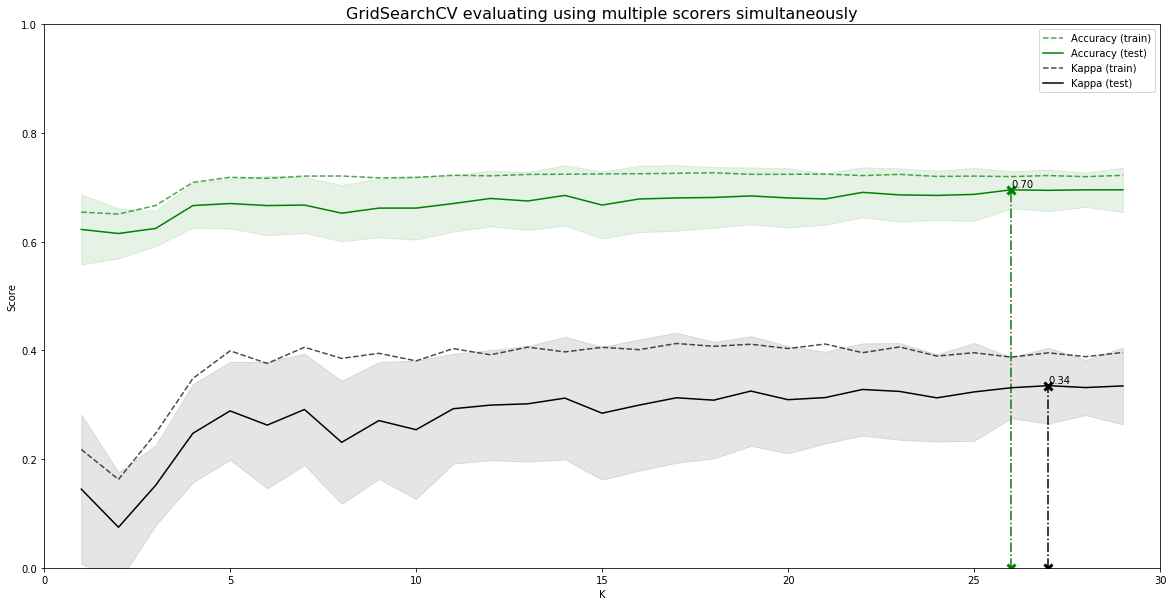
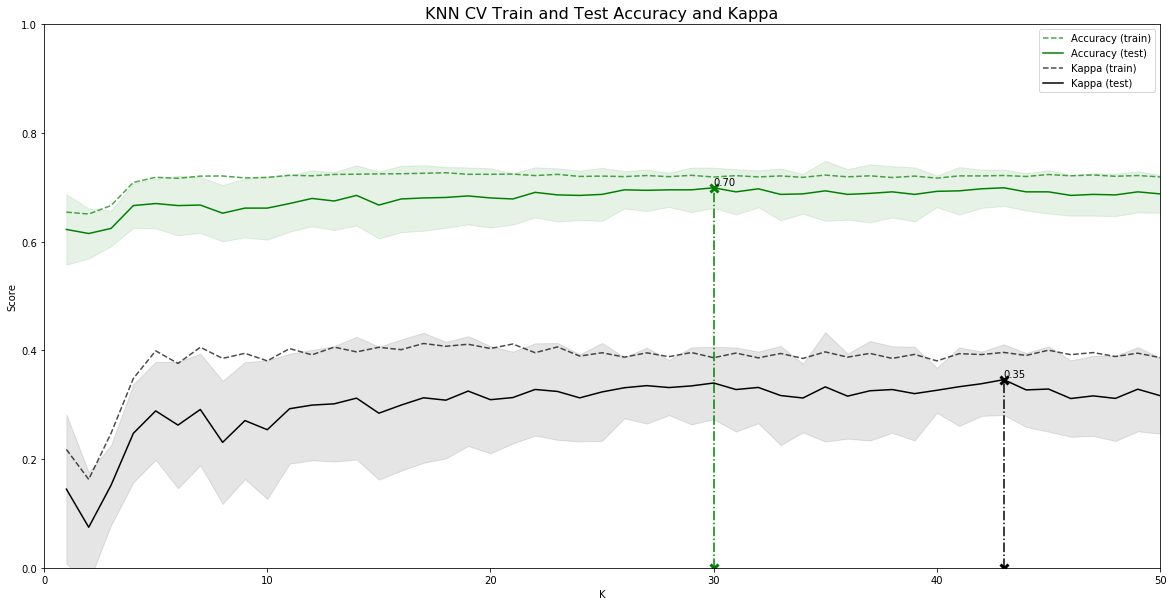
knn3

diff --git a/content/post/knn_in_r_and_python_wb.md b/content/post/knn_in_r_and_python_wb.md
@@ -129,7 +129,7 @@ D\_{ij}=\begin{cases}1 & \text{if }x\_{cat}\text{ is different for observation }
 This is equivalent to using $\sqrt{0.5}$ instead of 1 in one hot encoding on the categorical variable and keeping all levels instead of removing one of them. For example, a categorical variable with 3 levels
 
 <!-- html table generated in R 3.4.4 by xtable 1.8-3 package -->
-<!-- Tue Apr 16 05:11:19 2019 -->
+<!-- Tue Apr 16 23:39:30 2019 -->
 <table border=1>
 <tr> <th>  </th> <th> Cat </th>  </tr>
   <tr> <td> 1 </td> <td align="right"> A </td> </tr>
@@ -143,7 +143,7 @@ This is equivalent to using $\sqrt{0.5}$ instead of 1 in one hot encoding on the
 becomes:
 
 <!-- html table generated in R 3.4.4 by xtable 1.8-3 package -->
-<!-- Tue Apr 16 05:11:20 2019 -->
+<!-- Tue Apr 16 23:39:31 2019 -->
 <table border=1>
 <tr> <th>  </th> <th> Cat_A </th> <th> Cat_B </th> <th> Cat_C </th>  </tr>
   <tr> <td> 1 </td> <td align="right"> 0.7071 </td> <td align="right"> 0.0000 </td> <td align="right"> 0.0000 </td> </tr>
@@ -156,9 +156,9 @@ becomes:
 
 One can definetly use a different distance function for categorical predictors. The scaling value can be picked using cross validation instead of $\sqrt{0.5}$.
 
-Same goes for the continuous predictors. Instead of the Euclidean distance which I will be using here, one can consider using Manhattan or other distance functions.
+Same goes for the continuous predictors. Instead of Euclidean distance which I will be using here, one can consider using Manhattan or other distance functions.
 
-Since I will use the Euclidean distance, continuous predictors should be standardized before putting into the KNN model.
+Since I will use Euclidean distance, continuous predictors should be standardized before putting into the KNN model.
 
 #### R
 
@@ -175,7 +175,7 @@ train=data.frame(response=data_scaled$Purchase,X_reconst)
 
 #### Python
 
-The StandardScaler API in sklearn package divides the centered column by its population standard error instead of the sample standard error. For consistency, we will manually standardize our data using the sample standard error
+The StandardScaler API in sklearn package divides the centered column by its population standard error instead of the sample standard error. For consistency, we will manually standardize our data using the sample standard error.
 
 
 ```python
@@ -200,13 +200,13 @@ train_X=train.drop(columns=['response'])
 
 #### R
 
-I will use caret library to perform a 10-fold cross validation to choose the best K which gives the highest accuracy. Caret uses kknn library to build the KNN model.
+I will use caret library to perform a 10-fold cross validation to choose the best K which gives the highest accuracy. Caret uses kknn library to build KNN model.
 
 
 ```r
 set.seed(1)
 trControl=trainControl(method="cv",number=10)
-knn_fit=train(response~.,method="knn",tuneGrid=expand.grid(k = 1:30),trControl  = trControl,metric="Accuracy",data=train)
+knn_fit=train(response~.,method="knn",tuneGrid=expand.grid(k = 1:50),trControl  = trControl,metric="Accuracy",data=train)
 results=knn_fit$results
 best_index=c(which(results$Accuracy==max(results$Accuracy)),
              which(results$Kappa==max(results$Kappa)))
@@ -226,36 +226,56 @@ knn_fit$results
 
 ```
 ##     k  Accuracy     Kappa AccuracySD    KappaSD
-## 1   1 0.6896819 0.3321063 0.04254971 0.09263948
-## 2   2 0.6990280 0.3538687 0.05042353 0.10916349
-## 3   3 0.6971848 0.3487796 0.04771307 0.10376887
-## 4   4 0.6972111 0.3483215 0.05214732 0.10806761
-## 5   5 0.6944162 0.3434870 0.04234239 0.08312180
-## 6   6 0.7028628 0.3612155 0.04500631 0.09085001
-## 7   7 0.6954122 0.3458162 0.04268293 0.08405527
-## 8   8 0.7009592 0.3591907 0.03651074 0.06655244
-## 9   9 0.7028718 0.3637702 0.04131470 0.07956975
-## 10 10 0.7075099 0.3714192 0.04162599 0.08380993
-## 11 11 0.7103225 0.3778771 0.03770324 0.07344567
-## 12 12 0.7094139 0.3774971 0.04149781 0.08513499
-## 13 13 0.7149869 0.3883344 0.03519244 0.07140077
-## 14 14 0.7150218 0.3875047 0.03676830 0.07345591
-## 15 15 0.7113097 0.3793108 0.04247936 0.08903697
-## 16 16 0.7084796 0.3731874 0.04560078 0.09423627
-## 17 17 0.7178346 0.3913480 0.04111672 0.08718350
-## 18 18 0.7131703 0.3799901 0.03662609 0.07670596
-## 19 19 0.7066456 0.3629696 0.03782947 0.08194424
-## 20 20 0.7084798 0.3669370 0.03190863 0.06975017
-## 21 21 0.7122268 0.3749979 0.03415286 0.07566456
-## 22 22 0.7094056 0.3678481 0.02932583 0.06609833
-## 23 23 0.7065842 0.3612636 0.02842313 0.06559356
-## 24 24 0.7094054 0.3685464 0.03122861 0.06904943
-## 25 25 0.7112398 0.3746705 0.03891331 0.08496743
-## 26 26 0.7140522 0.3797552 0.03803511 0.08506928
-## 27 27 0.7140522 0.3803761 0.03463166 0.07776308
-## 28 28 0.7159300 0.3846383 0.03395814 0.07434971
-## 29 29 0.7159039 0.3844158 0.03446271 0.07655765
-## 30 30 0.7130828 0.3783018 0.03754836 0.08681035
+## 1   1 0.6906251 0.3339171 0.04325921 0.09322526
+## 2   2 0.6980585 0.3511190 0.04550928 0.09864504
+## 3   3 0.6934290 0.3395603 0.04777551 0.10433323
+## 4   4 0.6953333 0.3448852 0.04714897 0.09586986
+## 5   5 0.7009411 0.3565917 0.04563272 0.09145467
+## 6   6 0.7028715 0.3624516 0.04743864 0.09545828
+## 7   7 0.7001025 0.3550791 0.04874492 0.09846450
+## 8   8 0.7018852 0.3609174 0.03928283 0.07391403
+## 9   9 0.7010113 0.3601562 0.04007041 0.07817554
+## 10 10 0.7103138 0.3777522 0.03874655 0.07693057
+## 11 11 0.7084445 0.3733371 0.03898741 0.07618079
+## 12 12 0.7084881 0.3753050 0.03707404 0.07509543
+## 13 13 0.7150130 0.3897513 0.04197951 0.08401486
+## 14 14 0.7131700 0.3847856 0.04171897 0.08297062
+## 15 15 0.7113008 0.3791715 0.03970402 0.08423190
+## 16 16 0.7112922 0.3787823 0.04191011 0.08746329
+## 17 17 0.7168913 0.3886331 0.04242106 0.08907640
+## 18 18 0.7150395 0.3845364 0.03693784 0.07807783
+## 19 19 0.7085147 0.3677854 0.03923434 0.08399743
+## 20 20 0.7094232 0.3689265 0.03379248 0.07193130
+## 21 21 0.7131613 0.3773893 0.03478404 0.07656444
+## 22 22 0.7093879 0.3678677 0.03141898 0.07014651
+## 23 23 0.7075450 0.3631170 0.02974805 0.06786983
+## 24 24 0.7093967 0.3684234 0.03006633 0.06729417
+## 25 25 0.7131089 0.3795246 0.03930901 0.08424363
+## 26 26 0.7168559 0.3868948 0.03949694 0.08684174
+## 27 27 0.7159213 0.3851036 0.03600363 0.07985073
+## 28 28 0.7149954 0.3823052 0.03310564 0.07276067
+## 29 29 0.7131001 0.3772896 0.03298208 0.07506067
+## 30 30 0.7130740 0.3782465 0.03838892 0.08874797
+## 31 31 0.7112398 0.3748180 0.03505459 0.08230128
+## 32 32 0.7093706 0.3699765 0.03560543 0.08502194
+## 33 33 0.7121744 0.3771933 0.03542564 0.08247653
+## 34 34 0.7102965 0.3745923 0.03635678 0.08112295
+## 35 35 0.7093620 0.3721274 0.03700545 0.08351759
+## 36 36 0.7046976 0.3606155 0.03500373 0.07937940
+## 37 37 0.7074926 0.3683375 0.03769912 0.08311352
+## 38 38 0.7009764 0.3523413 0.03526293 0.07738195
+## 39 39 0.7009850 0.3513413 0.03463369 0.07623113
+## 40 40 0.7019111 0.3529251 0.03537222 0.07867791
+## 41 41 0.6990896 0.3464938 0.03098402 0.06809844
+## 42 42 0.7037628 0.3569029 0.03371521 0.07402020
+## 43 43 0.7028369 0.3546439 0.03269867 0.07150443
+## 44 44 0.7056406 0.3589693 0.03620287 0.08261948
+## 45 45 0.7056405 0.3584023 0.03540265 0.08015793
+## 46 46 0.7121394 0.3714603 0.03140217 0.07517304
+## 47 47 0.7102701 0.3673315 0.03086107 0.07441626
+## 48 48 0.7046538 0.3542232 0.03594853 0.08270633
+## 49 49 0.7027846 0.3501847 0.03920179 0.08895475
+## 50 50 0.7009591 0.3466634 0.03861344 0.08863902
 ```
 
 Using the best K = 17. We can make predictions on the data set and calculate the confusion matrix.
@@ -296,7 +316,7 @@ I use the neighbors API from sklearn package to perform the same 10-fold CV in o
 
 ```python
 knn_model = neighbors.KNeighborsClassifier(algorithm="brute")
-param_grid = {'n_neighbors': np.arange(1, 31)}
+param_grid = {'n_neighbors': np.arange(1, 51)}
 scoring = {"Accuracy": make_scorer(accuracy_score), "Kappa": make_scorer(cohen_kappa_score)}
 kappa_scorer = make_scorer(cohen_kappa_score)
 
@@ -312,7 +332,8 @@ knn_fit.fit(train_X, train_y)
 ##            weights='uniform'),
 ##        fit_params=None, iid='warn', n_jobs=None,
 ##        param_grid={'n_neighbors': array([ 1,  2,  3,  4,  5,  6,  7,  8,  9, 10, 11, 12, 13, 14, 15, 16, 17,
-##        18, 19, 20, 21, 22, 23, 24, 25, 26, 27, 28, 29, 30])},
+##        18, 19, 20, 21, 22, 23, 24, 25, 26, 27, 28, 29, 30, 31, 32, 33, 34,
+##        35, 36, 37, 38, 39, 40, 41, 42, 43, 44, 45, 46, 47, 48, 49, 50])},
 ##        pre_dispatch='2*n_jobs', refit='Accuracy', return_train_score=True,
 ##        scoring={'Accuracy': make_scorer(accuracy_score), 'Kappa': make_scorer(cohen_kappa_score)},
 ##        verbose=0)
@@ -330,7 +351,7 @@ print("The best K is " + str(knn_fit.best_params_['n_neighbors']) + " based on 1
 ## The best K is 30 based on 10-fold CV.
 ```
 
-Note that 30 is returned as the best K while it is 17 from R. This can be caused by different CV partitions when using different packages. R caret doesn't return the average and the standard error of the training set for CV procedure.
+Note that 30 is returned as the best K while it is 17 from R. This can be caused by the different CV partitions when using different packages. R caret doesn't return the average and the standard error of the training set for CV procedure.
 
 The CV evaluation score table is below.
 
@@ -379,8 +400,28 @@ pd.DataFrame({'K':results['param_n_neighbors'].data,
 ## 27  28                0.719524  ...            0.331585                   0.050655
 ## 28  29                0.722015  ...            0.334613                   0.070841
 ## 29  30                0.718897  ...            0.339948                   0.066611
+## 30  31                0.721390  ...            0.327925                   0.077337
+## 31  32                0.719003  ...            0.331800                   0.065902
+## 32  33                0.720874  ...            0.316898                   0.091178
+## 33  34                0.718278  ...            0.312371                   0.063170
+## 34  35                0.722429  ...            0.332830                   0.100608
+## 35  36                0.719212  ...            0.315752                   0.078186
+## 36  37                0.721080  ...            0.325660                   0.091494
+## 37  38                0.717964  ...            0.327913                   0.079653
+## 38  39                0.720559  ...            0.320427                   0.086273
+## 39  40                0.716825  ...            0.326568                   0.041247
+## 40  41                0.720975  ...            0.333124                   0.072326
+## 41  42                0.720872  ...            0.338615                   0.059139
+## 42  43                0.721703  ...            0.346141                   0.064937
+## 43  44                0.719835  ...            0.327249                   0.067968
+## 44  45                0.723469  ...            0.328841                   0.078471
+## 45  46                0.721185  ...            0.311362                   0.070268
+## 46  47                0.722639  ...            0.316281                   0.073649
+## 47  48                0.720249  ...            0.311617                   0.078312
+## 48  49                0.721600  ...            0.328555                   0.077470
+## 49  50                0.719106  ...            0.316695                   0.069817
 ## 
-## [30 rows x 9 columns]
+## [50 rows x 9 columns]
 ```
 
 We use the best K = 30 on the data set to make predictions. The confusion matrix is below.
@@ -465,7 +506,7 @@ plt.xlabel("K")
 plt.ylabel("Score")
 
 ax = plt.gca()
-ax.set_xlim(0, 30)
+ax.set_xlim(0, 50)
 ax.set_ylim(0, 1)
 
 # Get the regular numpy array from the MaskedArray
